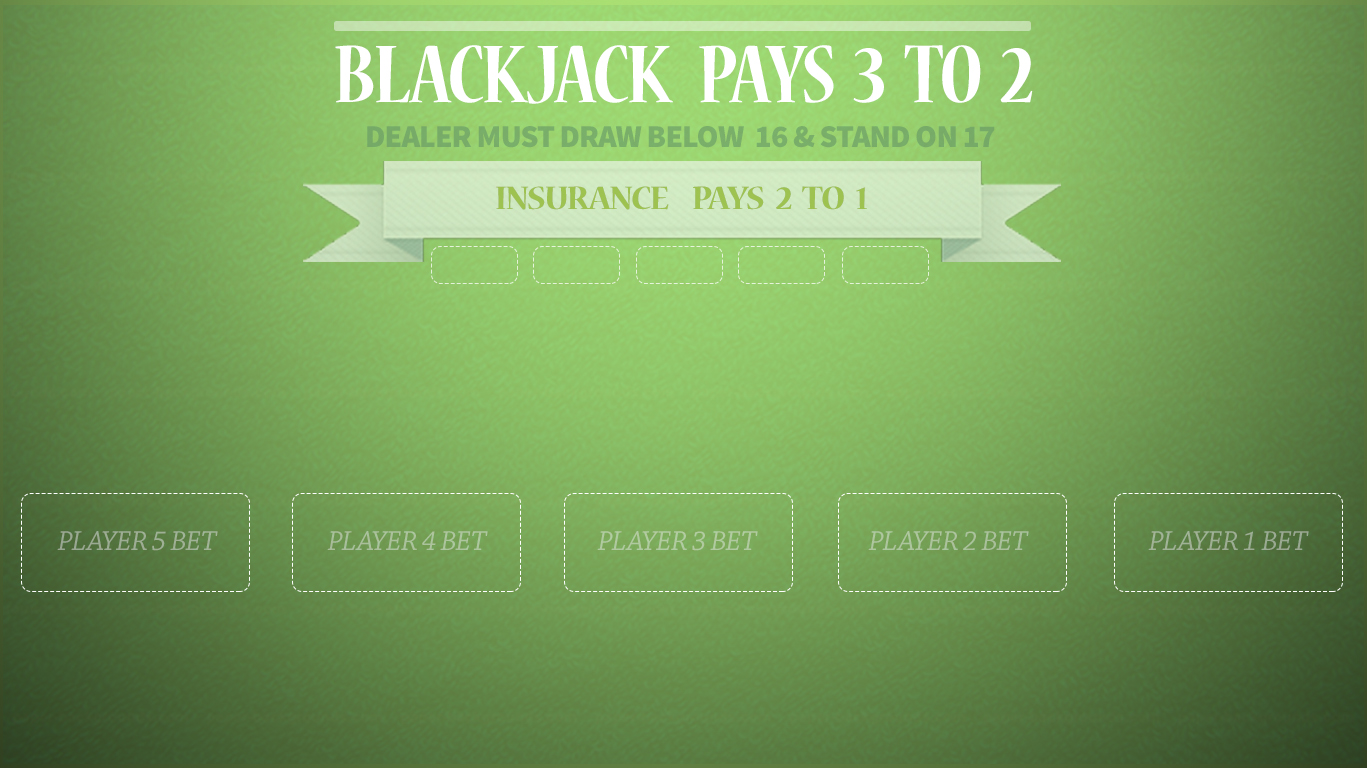
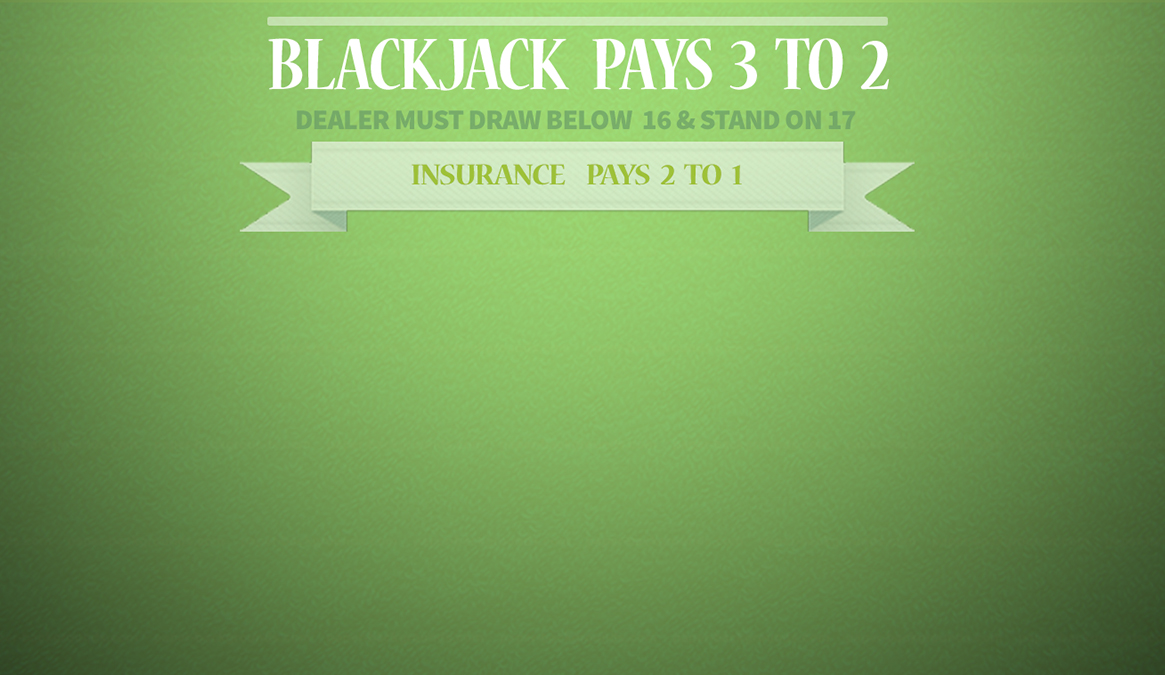
make HTML/CSS uploaded card images

diff --git a/css/style.css b/css/style.css
@@ -1,24 +1,150 @@
+.hide{
+    display: none;
+}
+.show{
+    display: block;
+}
 .bg-img{
-    background-image: url('../img/tableTestView.jpg');
+    background-image: url('../img/backgroundTable.jpg');
     position: relative;
-    width: 1366px;
-    height: 768px;
+    width: 1165px;
+    height: 675px;
     margin-left: auto;
     margin-right: auto;
-    background-repeat: no-repeat;   
+    background-repeat: no-repeat;  
+    z-index: -500px;
 }
-.player-slot{
-	width: 250px;
-    height: 268px;
-    background-color: black;
-    margin-right: 20px;
-	float: left;
-	opacity: 0.3;
+.body-style{
+    padding: 0;
+    margin: auto;
+    padding: auto;
+    padding-top: 2px;
+    background-color:black;
 }
-.group-slot{
-  	top: 460px;
-	position: absolute;
-	margin-left: 10px;
+/* ========== ========== Player Cards Display Slots CSS ========== ========== */
+#slotA{
+    width: 233px;
+    height: 278px;
+    margin: 0;
+    padding: 0;
+    position: absolute;
+    bottom: 157px;
+    background-color: white;
+    opacity: .10;
 }
-
+#slotB{
+    width: 233px;
+    height: 278px;
+    margin: 0;
+    padding: 0;
+    position: absolute;
+    bottom: 157px;
+    left: 233px;
+    background-color: white;
+    opacity: .20;
+}
+#slotC{
+    width: 233px;
+    height: 278px;
+    margin: 0;
+    padding: 0;
+    position: absolute;
+    bottom: 157px;
+    left: 466px;
+}
+#slotD{
+    width: 233px;
+    height: 278px;
+    margin: 0;
+    padding: 0;
+    position: absolute;
+    bottom: 157px;
+    left: 699px;
+    background-color: white;
+    opacity: .30;
+}
+#slotE{
+    width: 233px;
+    height: 278px;
+    margin: 0;
+    padding: 0;
+    position: absolute;
+    bottom: 157px;
+    left: 932px;
+    background-color: white;
+    opacity: .40;
+}
+/* ========== ========== Card Display CSS ========== ========== */
+.card-img{
+    width: 91px;
+    height: 127px;
+}
+.first-card-norm{
+    position: absolute;
+    left: 5px;
+    z-index: 10;
+}
+.second-card-norm{
+    position: absolute;
+    left: 10px;
+    top: 25px;
+    z-index: 20;
+}
+.third-card-norm{
+    position: absolute;
+    left: 15px;
+    top: 50px;
+    z-index: 30;
+}
+.fourth-card-norm{
+    position: absolute;
+    left: 20px;
+    top: 75px;
+    z-index: 40;
+}
+.fifth-card-norm{
+    position: absolute;
+    left: 25px;
+    top: 100px;
+    z-index: 50;
+}
+.sixth-card-norm{
+    position: absolute;
+    left: 30px;
+    top: 125px;
+    z-index: 60;
+}
+/* ========== ========== Game Setting Display CSS ========== ========== */
+#newGame{
+    width: 110px;
+    height: 145px;
+    position: absolute;
+    bottom: 0px;
+    left: 25px;
+    opacity: 0.0;
+    background-color: white;
+}
+#playGame{
+    width: 110px;
+    height: 145px;
+    position: absolute;
+    bottom: 0px;
+    left: 135px;
+    opacity: 0.0;
+    background-color: white;
+}
+#newGame:hover{
+   opacity: 0.05;
+}
+#playGame:hover{
+   opacity: 0.05;
+}
+.spilt-control{
+    width: 250px;
+    height: 145px;
+    position: absolute;
+    right: 40px;
+    bottom: 0px;
+    background-image: url('../img/splitControls.png')
+}
 /*hover effects*/

diff --git a/js/app.js b/js/app.js
@@ -25,7 +25,7 @@ var blackjack = {
 		// phase 0: setup this.makeGame, create player, dealer, deck, can hit start playing
 		this.shoe = prompt("How many decks would you like to play with?\n \nIncreasing the number of decks may give the house an advantage.", "1");
 		this.playerCount = prompt("How players do we have today?\n \nSupports (1-5) players.", "1");
-		this.playerStartMoney = prompt("How much money does each player have to start?", "100");
+		this.playerStartMoney = prompt("How much money does each player start with?", "100");
 		this.currentDeck = new Deck();
 		// create a deck from user's input num, shuffle it
 		this.currentDeck.createDeck(this.shoe);
@@ -83,6 +83,19 @@ var blackjack = {
 			// phase 2: init game, deals starting hand for each player/dealer, check for insurance, hit dealer
 			console.log("If dealer has an A, there are desire to insurances, do this step.")
 			// check priority run once wait for player to decide what to do next when they click button
+
+			// Deal out cards, Equivalent: $(document.createElement('img'))
+			// 1 player game setup
+			if (this.playerCount == 1) {
+				// set class depending on which card it currently is
+				var firstCard = $('<img class="first-card-norm">'); 
+				firstCard.attr('src', this.currentPlayer.hand[0].image);
+				firstCard.appendTo('#slotC');
+				var secondCard = $('<img class="second-card-norm">'); 
+				secondCard.attr('src', this.currentPlayer.hand[1].image);
+				secondCard.appendTo('#slotC');
+			};
+
 			this.priorityCheck();
 		}else{
 			alert("Not enough cards in the deck to play a game.")
@@ -116,6 +129,16 @@ var blackjack = {
 			this.currentPlayerHand = this.userPlayers[this.prorityHolder].hit(this.currentDeck.library);
 			//if player hit and doesn't bust, they can chose to keep hitting
 			console.log(this.userPlayers[this.prorityHolder].hand);
+			//add a card
+			var currentHandSize = this.userPlayers[this.prorityHolder].hand.length;
+			if (this.playerCount == 1) {
+				if (currentHandSize == 3) {
+					var addCard = $('<img class="third-card-norm">'); 
+					addCard.attr('src', this.currentPlayer.hand[2].image);
+					addCard.appendTo('#slotC');
+					console.log("added card.")
+				}; 
+			};
 			if (this.currentPlayerHand == "BUST") {
 				console.log(this.userPlayers[this.prorityHolder].hand);
 				//priority is passed if the player busts

diff --git a/js/table.js b/js/table.js
@@ -1,32 +1,38 @@
 //window.onload generate buttons 
 $(function() {
-    alert( "javascript loaded, start testing!" );
+    alert( "Weclome to the Sierra Madre Casino.\nLet go...and begin...Again...\njavaScript loaded!" );
 	//starts the game create: deck/players/dealer
-	blackjack.makeGame();
+/*	blackjack.makeGame();*/
 	//checks for all bets are set to kick off game
-	blackjack.readyCheck();
+/*	blackjack.readyCheck();*/
 	//game starts, begin playing
-	blackjack.startGame();
+/*	blackjack.startGame();*/
 	
 	//player actions as follows
-	//blackjack.playerActions("stand");
-	//blackjack.playerActions("hit");
-	//blackjack.playerActions("double");
-	//blackjack.playerActions("surrender");
-	//blackjack.playerActions("spilt");
-	//blackjack.playerActions("test");
- 
-	//depending on number of players creates the player slot accordingly
-	if (blackjack.userPlayers.length > 0) {	
-		$("#slotA").click(function(){ blackjack.startGame(); });
-	};
+/*	
+	blackjack.playerActions("stand");
+	blackjack.playerActions("hit");
+	blackjack.playerActions("double");
+	blackjack.playerActions("surrender");
+	blackjack.playerActions("spilt");
+	blackjack.playerActions("test");
+*/
+	//create button element for existing items 
+	$("#newGame").click(function(){
+		blackjack.makeGame();
+		blackjack.readyCheck();
+	});
+	$("#playGame").click(function(){
+		blackjack.startGame();
+	});
 });
 
-
+//depending on number of players creates the player slot accordingly
 
 // hitButton.addEventListener("click", function() {
 // 	blackjack.playerActions("hit");
 // })
+
 
 
 

diff --git a/js/build.js b/js/build.js
@@ -1,10 +1,10 @@
 //|Card| Constructor: takes argument, stores attrs, show/hide visible 
-var Card = function (assignNum, assignSuit, assignValue) {
+var Card = function (assignNum, assignSuit, assignValue, assignURL) {
 	this.num = assignNum;
 	this.suit = assignSuit;
 	this.cardValue = assignValue;
 	this.visible = true;
-	this.image = "url";
+	this.image = assignURL;
 	this.hide = function () {this.hidden = false};
 	this.show = function () {this.hidden = true};
 };
@@ -17,6 +17,7 @@ var Deck = function () {
 	this.createDeck = function (numOfDecks) {
 		this.numOfDeckToCreate = numOfDecks;
 		if (this.numOfDeckToCreate != 0) {
+			var currentCardCount = 1;
 			for (var d = 0; d < parseInt(this.numOfDeckToCreate); d++) {
 				//create num of deck equal to numOfDecks to make library of mulitple decks
 				for (var s=0; s<this.suits.length; s++) {
@@ -30,7 +31,9 @@ var Deck = function () {
 							var cardIntValue = parseInt(this.nums[n]);
 						}
 						//create card objs put them in library
-						this.library.push(new Card( this.nums[n], this.suits[s], cardIntValue));
+						var currentCardURL = "img/card_images_folder/" + currentCardCount + "cardimg.png";
+						this.library.push(new Card( this.nums[n], this.suits[s], cardIntValue, currentCardURL));
+						currentCardCount++;
 					};
 				};		
 			};

diff --git a/index.html b/index.html
@@ -9,17 +9,24 @@
   <script type="text/javascript" src='js/app.js'></script>
   <script type="text/javascript" src='js/table.js'></script>
 </head>
-  <body>
+  <body class="body-style">
+    <!-- Background Image is backjack table -->
   	<div class="bg-img">
-  		<div class="group-slot">
-	  		<div id = "slotA" class="player-slot"></div>
-	   		<div id = "slotB" class="player-slot"></div>
-	   		<div id = "slotC" class="player-slot"></div>
-	  		<div id = "slotD" class="player-slot"></div>
-	  		<div id = "slotE" class="player-slot"></div>  		   		  		 		
+      <!-- Player Slots -->
+  		<div class="">
+	  		<div id = "slotA" class=""></div>
+	   		<div id = "slotB" class=""></div>
+	   		<div id = "slotC" class=""></div>
+	  		<div id = "slotD" class=""></div>
+	  		<div id = "slotE" class=""></div>  		   		  		 		
   		</div>
-  		<div class="player-control-console">
-  		</div>
+      <!-- Player Controls -->
+      <div class="controls">
+        <div id="newGame"></div>
+        <div id="playGame"></div>
+        <div class="spilt-control hide"></div>
+      </div>
   	</div>
+
   </body>
 </html>
